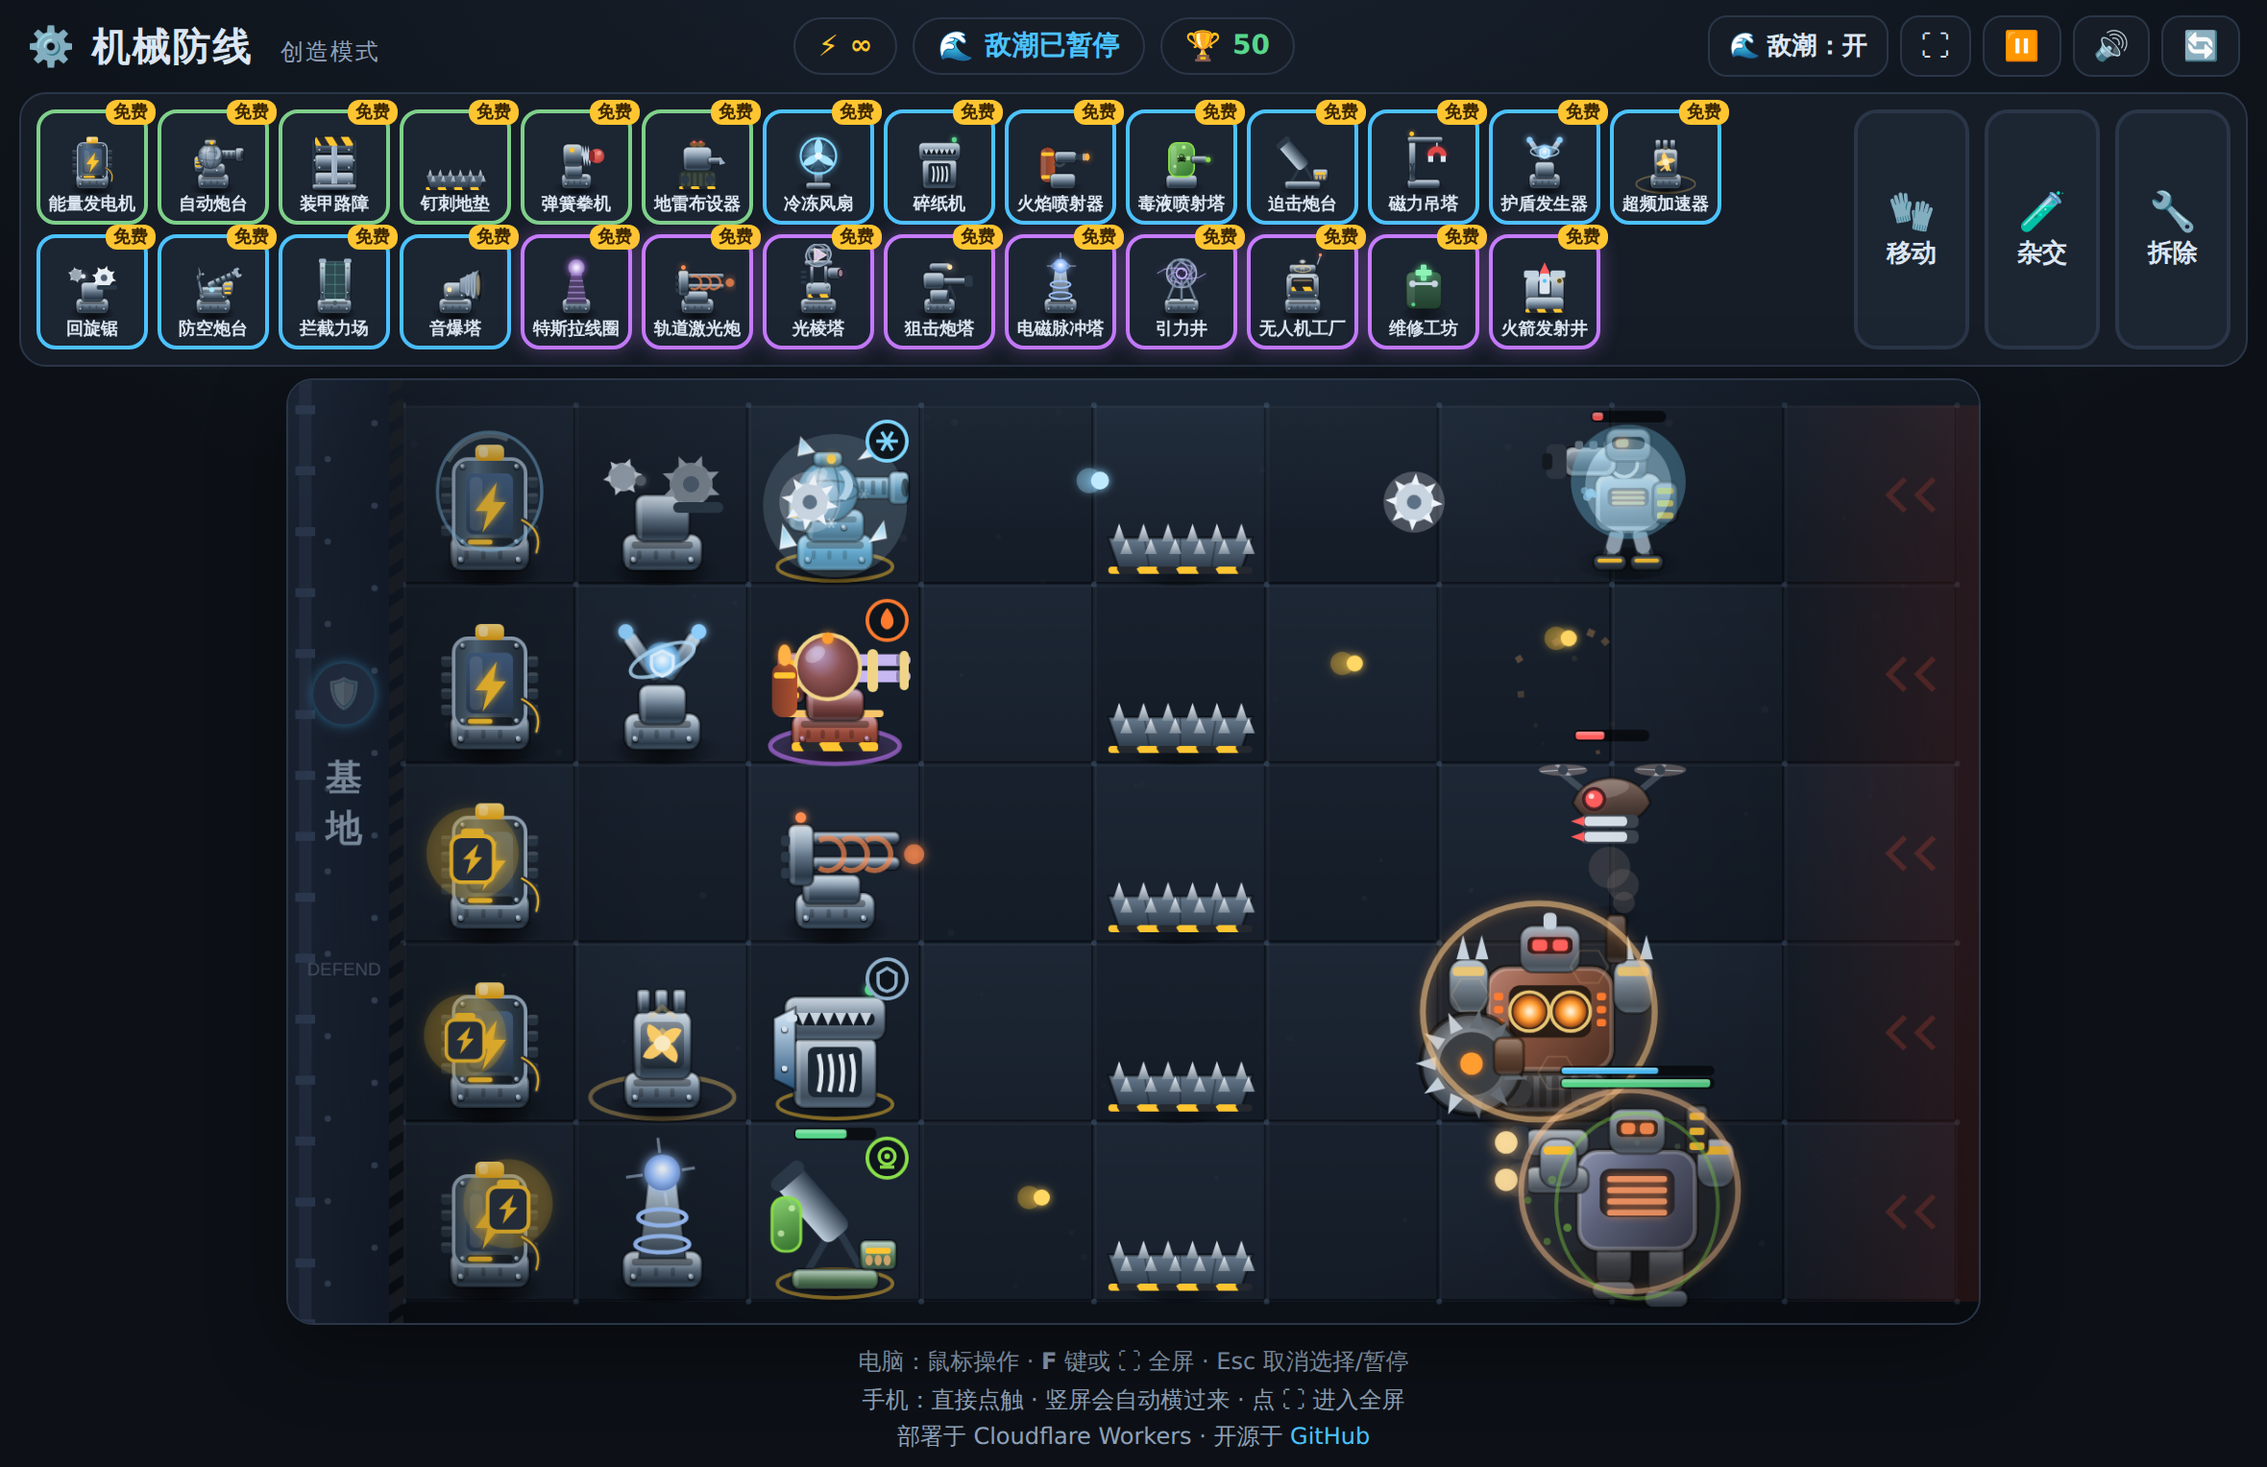
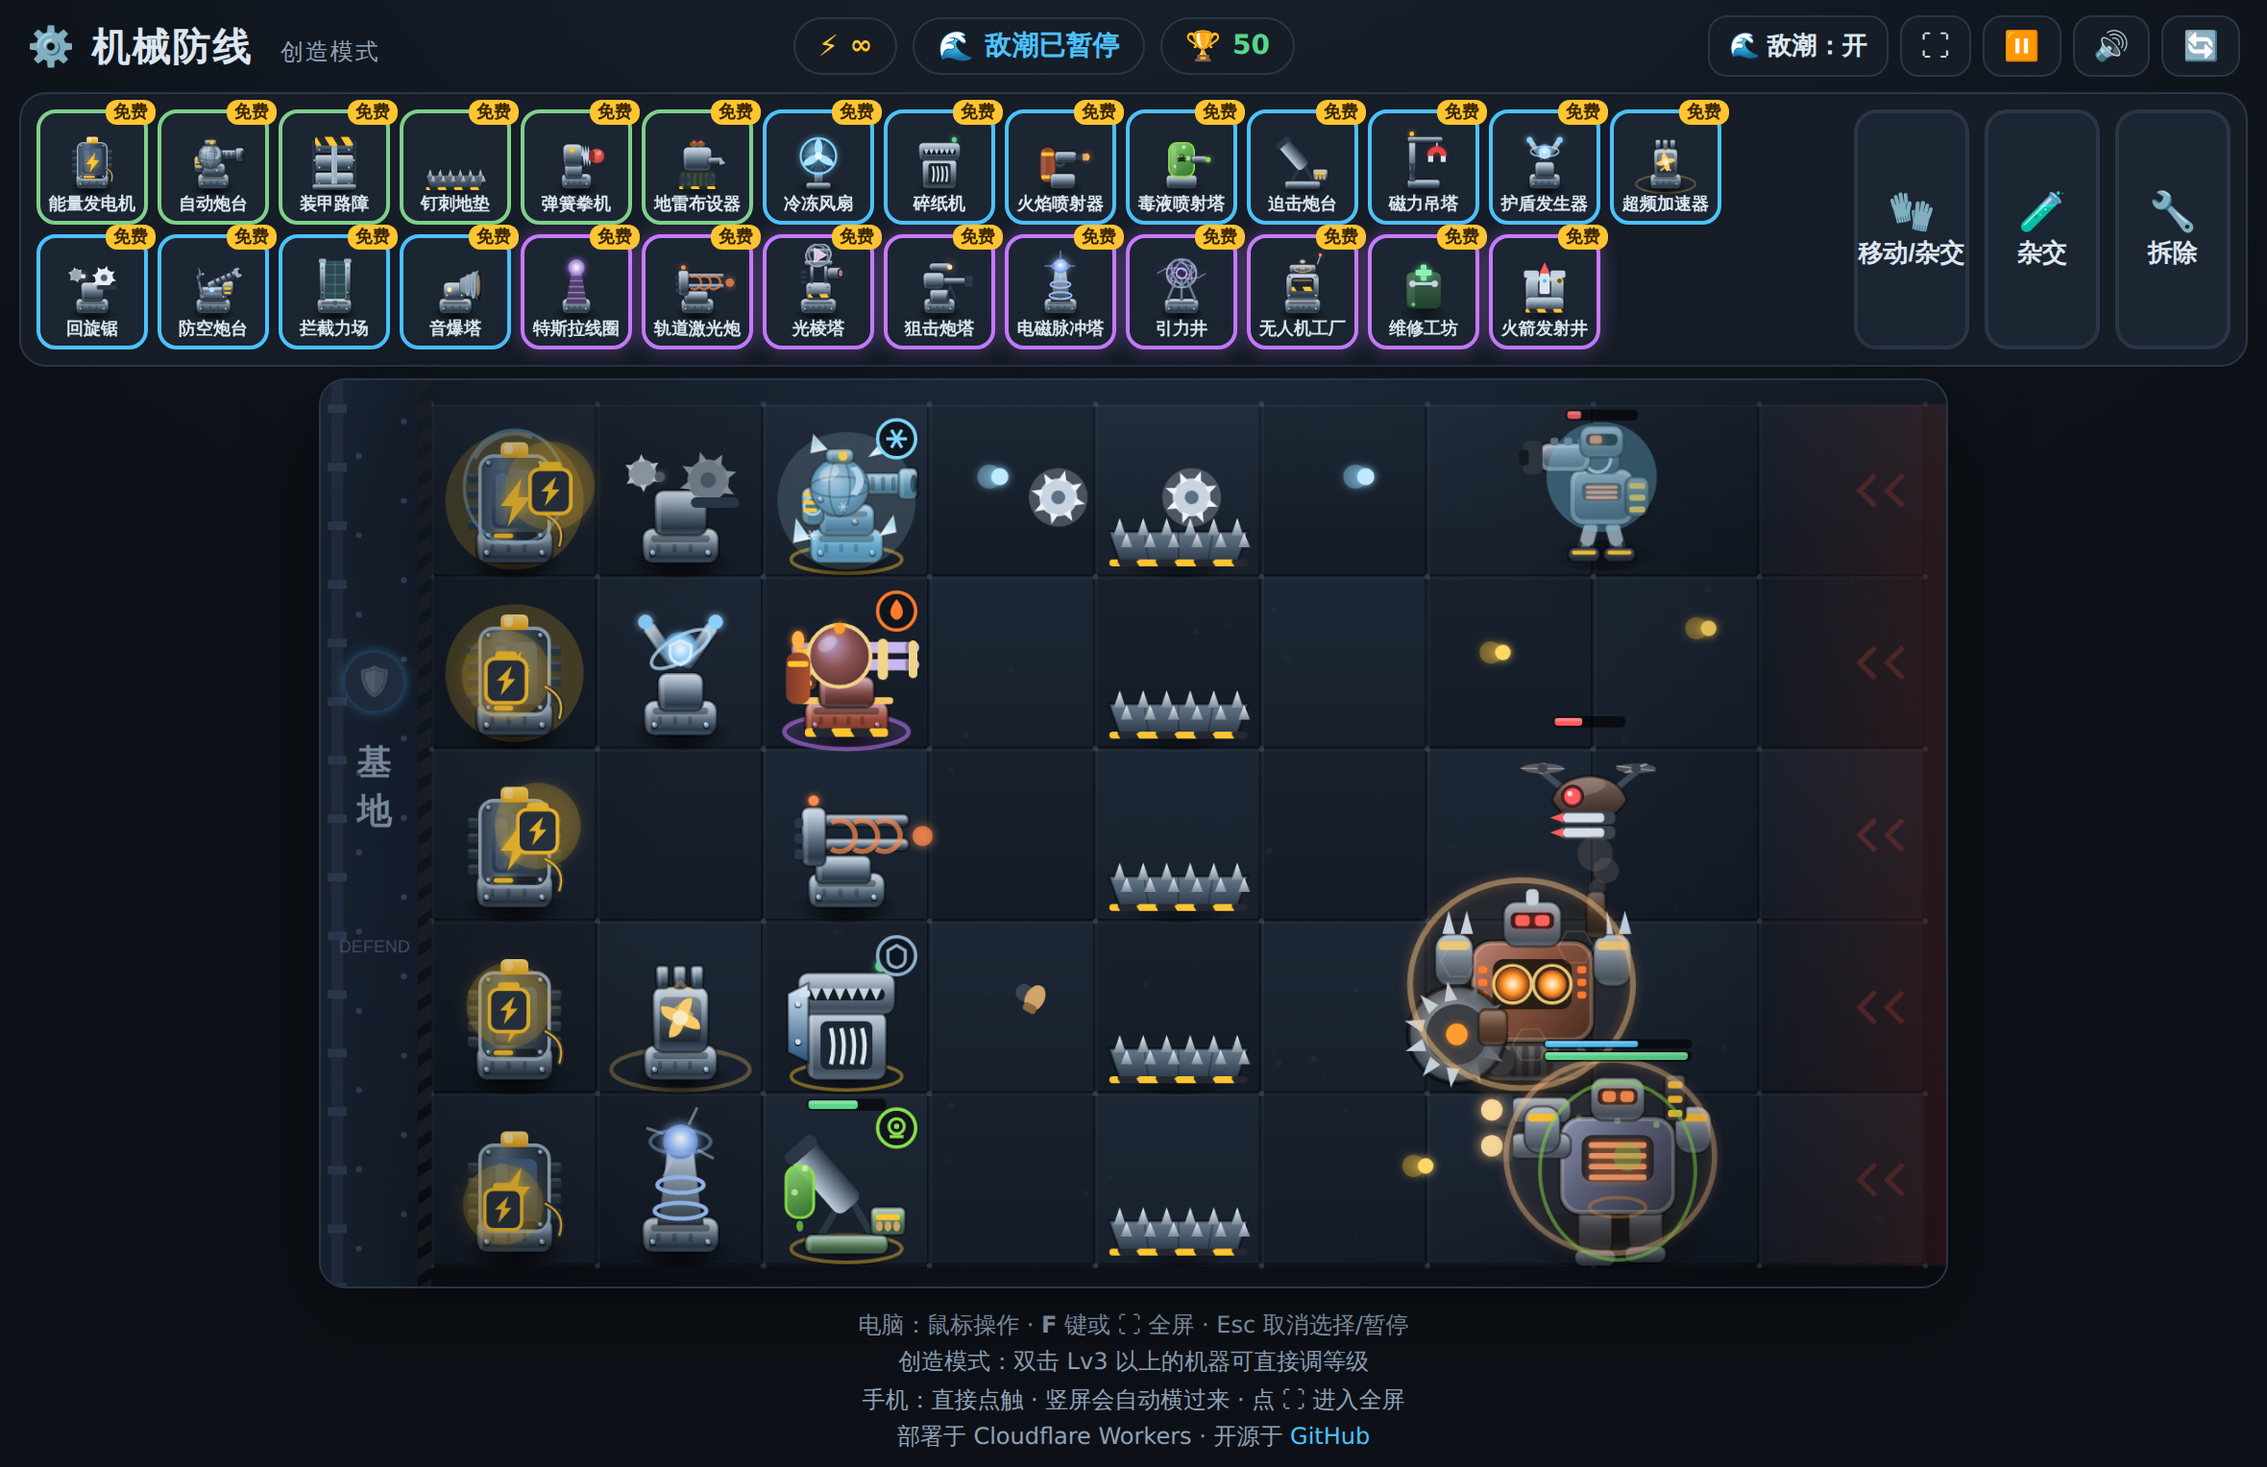
手套改成拖拽杂交：拖到空格是搬运，拖到机器身上直接合成
- 手套按钮改名「移动/杂交」：按住一台机器拖走，落到空格是搬运，
  落到另一台机器身上就直接杂交，不用先点杂交按钮再点两下
- 点选式也保留：点一下拿起、点另一台放下同样触发杂交；点回原格取消
- 拖拽过程中实时预览：源格蓝框、目标格紫框、虚线连接，
  目标上方直接标出合成后的名字（例如「冰霜加特林炮台 Lv6」），
  手上的机器半透明跟着指针走
- 手套没有冷却，合成完保持激活，可以一路拖着连锁合成
- 杂交按钮同步改成合成后保持激活，连着点下一对即可，不再需要反复点按钮
- 拖到未开封的盲盒上会被拒绝并提示
- 鼠标按住拖动与触屏点选/拖动共用同一套判定，竖屏旋转下同样正确

调试接口新增 grab / drop / drag / carrying，方便脚本模拟手套操作。

Claude-Session: https://claude.ai/code/session_013zm6ptXCtQUidycgiq7Yoe

diff --git a/public/game.js b/public/game.js
@@ -2464,33 +2464,22 @@ cv.addEventListener('pointerdown', ev => {
     return;
   }
   if (sel && sel.mode === 'move') {
-    const m = grid[cell.r][cell.c];
-    if (m) {
+    if (!sel.from) {
+      // 空手：把这一格的机器拿起来（按住不放可以直接拖）
+      const m = grid[cell.r][cell.c];
+      if (!m) return;
       if (m.type === 'box') {
         addFloat(cellCx(cell.c), cellCy(cell.r) - 30, '盲盒还没开封', '#ff5d5d');
         sfx('error');
         return;
       }
-      if (sel.from && sel.from.r === cell.r && sel.from.c === cell.c) { sel.from = null; return; }
       sel.from = { r: cell.r, c: cell.c };
+      sel.grabbed = true;          // 记住这次是按下拿起的，抬手时判断是不是拖拽
       sfx('place');
       return;
     }
-    if (!sel.from) return;
-    const src = grid[sel.from.r][sel.from.c];
-    if (!src) { sel.from = null; return; }
-    grid[sel.from.r][sel.from.c] = null;
-    grid[cell.r][cell.c] = src;
-    spawnParts(cellCx(sel.from.c), cellCy(sel.from.r) + 20, '#8fa1b8', 8, 70, 0.4, 'smoke');
-    src.row = cell.r;
-    src.col = cell.c;
-    if (lvTarget === src) renderLevelPanel();
-    spawnParts(cellCx(cell.c), cellCy(cell.r) + 20, '#8fa1b8', 8, 70, 0.4, 'smoke');
-    addFloat(cellCx(cell.c), cellCy(cell.r) - 40, '搬运完成', '#4cc2ff');
-    sfx('place');
-    // 手套没有冷却：保持搬运模式，可以连着搬
-    sel.from = null;
-    renderTray();
+    // 手上有机器：点自己=放回原地，点空格=搬过去，点别的机器=直接杂交
+    dropCarried(cell.r, cell.c);
     return;
   }
   if (sel && sel.mode === 'fuse') {
@@ -2510,7 +2499,8 @@ cv.addEventListener('pointerdown', ev => {
     const a = grid[sel.first.r][sel.first.c];
     if (!a) { sel.first = { r: cell.r, c: cell.c }; return; }
     doFuse(sel.first.r, sel.first.c, cell.r, cell.c);
-    sel = null;
+    // 杂交模式保持激活，可以接着选下一对，不用再点按钮
+    sel.first = null;
     renderTray();
     return;
   }
@@ -2562,6 +2552,57 @@ cv.addEventListener('pointerdown', ev => {
     }
   }
 });
+// 手套放下：空格→搬运，别的机器→杂交，原地→放回
+function dropCarried(r, c) {
+  if (!sel || sel.mode !== 'move' || !sel.from) return false;
+  const src = grid[sel.from.r][sel.from.c];
+  if (!src) { sel.from = null; sel.grabbed = false; return false; }
+  if (sel.from.r === r && sel.from.c === c) { sel.from = null; sel.grabbed = false; return false; }
+
+  const dst = grid[r][c];
+  if (dst) {
+    // 拖到另一台机器身上 → 直接杂交，手套保持激活可以接着拖
+    if (dst.type === 'box') {
+      addFloat(cellCx(c), cellCy(r) - 30, '盲盒还没开封', '#ff5d5d');
+      sfx('error');
+      return false;
+    }
+    doFuse(sel.from.r, sel.from.c, r, c);
+    sel.from = null;
+    sel.grabbed = false;
+    renderTray();
+    return true;
+  }
+  // 空格 → 搬运
+  grid[sel.from.r][sel.from.c] = null;
+  grid[r][c] = src;
+  spawnParts(cellCx(sel.from.c), cellCy(sel.from.r) + 20, '#8fa1b8', 8, 70, 0.4, 'smoke');
+  src.row = r;
+  src.col = c;
+  if (lvTarget === src) renderLevelPanel();
+  spawnParts(cellCx(c), cellCy(r) + 20, '#8fa1b8', 8, 70, 0.4, 'smoke');
+  addFloat(cellCx(c), cellCy(r) - 40, '搬运完成', '#4cc2ff');
+  sfx('place');
+  // 手套没有冷却：保持搬运模式，可以连着搬
+  sel.from = null;
+  sel.grabbed = false;
+  renderTray();
+  return true;
+}
+
+cv.addEventListener('pointercancel', () => { if (sel && sel.mode === 'move') sel.grabbed = false; });
+// 按住拖动：抬手时如果已经离开原格，就在这里落下
+cv.addEventListener('pointerup', ev => {
+  if (state !== 'playing') return;
+  if (!sel || sel.mode !== 'move' || !sel.from || !sel.grabbed) return;
+  const p = toGame(ev);
+  const cell = cellAt(p.x, p.y);
+  sel.grabbed = false;                       // 抬手后转为「点一下放下」模式
+  if (!cell) return;
+  if (cell.r === sel.from.r && cell.c === sel.from.c) return;   // 原地抬手 = 继续拿着
+  dropCarried(cell.r, cell.c);
+});
+
 cv.addEventListener('contextmenu', ev => {
   ev.preventDefault();
   if (sel) { sel = null; renderTray(); }
@@ -8736,22 +8777,55 @@ function drawHoverGhost() {
     return;
   }
   if (sel.mode === 'move') {
-    if (sel.from && !occupied) {
-      const src = grid[sel.from.r][sel.from.c];
-      g.fillStyle = 'rgba(76,194,255,0.14)';
-      g.fillRect(x, y, CELL_W, CELL_H);
-      g.strokeStyle = 'rgba(76,194,255,0.7)';
-      g.lineWidth = 2;
-      g.strokeRect(x + 1, y + 1, CELL_W - 2, CELL_H - 2);
-      if (src) {
-        g.globalAlpha = 0.5;
-        drawMachine(g, src.type, cellCx(cell.c), cellCy(cell.r) + 6, 1.0, src);
-        g.globalAlpha = 1;
-      }
-    } else {
+    const src = sel.from ? grid[sel.from.r][sel.from.c] : null;
+    if (!src) {
+      // 空手：高亮可以拿起的机器
       g.fillStyle = occupied ? 'rgba(76,194,255,0.16)' : 'rgba(255,255,255,0.05)';
       g.fillRect(x, y, CELL_W, CELL_H);
+      return;
     }
+    const self = sel.from.r === cell.r && sel.from.c === cell.c;
+    const dst = grid[cell.r][cell.c];
+    const willFuse = !!dst && !self && dst.type !== 'box';
+    const bad = !!dst && dst.type === 'box';
+    // 落点框：杂交=紫、搬运=蓝、不能放=红
+    const col = bad ? '255,93,93' : willFuse ? '199,123,255' : self ? '150,165,180' : '76,194,255';
+    g.fillStyle = 'rgba(' + col + ',0.16)';
+    g.fillRect(x, y, CELL_W, CELL_H);
+    g.strokeStyle = 'rgba(' + col + ',0.8)';
+    g.lineWidth = 2;
+    g.strokeRect(x + 1, y + 1, CELL_W - 2, CELL_H - 2);
+    if (willFuse) {
+      // 预告杂交结果
+      const out = nameOfModules(mergeModules(src.modules, dst.modules));
+      g.font = 'bold 12px "PingFang SC", system-ui, sans-serif';
+      g.textAlign = 'center';
+      g.textBaseline = 'bottom';
+      const tw = g.measureText(out).width;
+      const ty = y - 4;
+      g.fillStyle = 'rgba(10,14,20,0.85)';
+      rr(g, x + CELL_W / 2 - tw / 2 - 7, ty - 17, tw + 14, 18, 6); g.fill();
+      g.strokeStyle = 'rgba(199,123,255,0.85)';
+      g.lineWidth = 1.2;
+      rr(g, x + CELL_W / 2 - tw / 2 - 7, ty - 17, tw + 14, 18, 6); g.stroke();
+      g.fillStyle = '#e2ccff';
+      g.fillText(out, x + CELL_W / 2, ty - 3);
+      // 连线
+      g.strokeStyle = 'rgba(199,123,255,' + (0.5 + Math.sin(time * 8) * 0.25) + ')';
+      g.lineWidth = 2.4;
+      g.setLineDash([6, 5]);
+      g.beginPath();
+      g.moveTo(cellCx(sel.from.c), cellCy(sel.from.r));
+      g.lineTo(cellCx(cell.c), cellCy(cell.r));
+      g.stroke();
+      g.setLineDash([]);
+    }
+    // 手上的机器跟着指针走
+    g.save();
+    g.globalAlpha = 0.62;
+    const fy = cellCy(cell.r) + 6 - (willFuse ? 16 : 0);
+    drawMachine(g, src.type, cellCx(cell.c), fy, willFuse ? 0.85 : 1.0, src);
+    g.restore();
     return;
   }
   if (sel.mode === 'card') {
@@ -8832,6 +8906,29 @@ window.__game = {
   get mode() { return mode; },
   get cooldowns() { return { ...classicCd }; },
   get moveCooldown() { return 0; },   // 手套已取消冷却
+  // 手套：拿起一台机器
+  grab: (r, c) => {
+    if (state !== 'playing') return false;
+    sel = { mode: 'move', from: null, grabbed: false };
+    const m = grid[r][c];
+    if (!m || m.type === 'box') return false;
+    sel.from = { r, c };
+    renderTray();
+    return true;
+  },
+  // 手套：把手上的机器落到目标格（空格=搬运，有机器=杂交）
+  drop: (r, c) => dropCarried(r, c),
+  // 一步到位：从 (r1,c1) 拖到 (r2,c2)
+  drag: (r1, c1, r2, c2) => {
+    if (state !== 'playing') return false;
+    const m = grid[r1][c1];
+    if (!m || m.type === 'box') return false;
+    sel = { mode: 'move', from: { r: r1, c: c1 }, grabbed: true };
+    const ok = dropCarried(r2, c2);
+    renderTray();
+    return ok;
+  },
+  get carrying() { return sel && sel.mode === 'move' && sel.from ? { ...sel.from } : null; },
   move: (r1, c1, r2, c2) => {
     const src = grid[r1][c1];
     if (!src || src.type === 'box' || grid[r2][c2]) return false;

diff --git a/public/index.html b/public/index.html
@@ -479,8 +479,8 @@
       </div>
     </div>
     <div id="classicTray" style="display:none;"></div>
-    <button id="moveBtn" title="手套：选中后点击一台机器，再点击空格把它搬过去（冷却 5 秒）"><span class="big">🧤</span>移动</button>
-    <button id="fuseBtn" title="任意两台机器都能杂交！同类杂交升级（炮台+炮台=双管炮台，双管+双管=加特林炮台），不同类杂交叠能力（碎纸机+路障=装甲碎纸机，再+发电机=充能装甲碎纸机……最多叠 5 个能力、每个 3 级）"><span class="big">🧪</span>杂交</button>
+    <button id="moveBtn" title="手套（没有冷却）：拿起一台机器 → 拖到空格就是搬运，拖到另一台机器身上就直接杂交，可以一直拖不用重新点"><span class="big">🧤</span>移动/杂交</button>
+    <button id="fuseBtn" title="点选式杂交（杂交完保持激活，可以连着点）：任意两台机器都能杂交！同类杂交升级（炮台+炮台=双管炮台，双管+双管=加特林炮台），不同类杂交叠能力（碎纸机+路障=装甲碎纸机，再+发电机=充能装甲碎纸机……最多叠 5 个能力、每个 3 级）"><span class="big">🧪</span>杂交</button>
     <button id="shovelBtn" title="选中后点击场上的机器将其拆除"><span class="big">🔧</span>拆除</button>
   </div>
 
@@ -508,7 +508,7 @@
         <div>🎁 <b>开盲盒</b>：花 50⚡ 把盲盒放到战场空格上——<b>落地即开</b>，开出什么就地服役！</div>
         <div>🎲 <b>拼手气</b>：10 种机器分普通/稀有/史诗，连开 4 次普通后必出稀有以上</div>
         <div>⚡ <b>能量</b>：点击掉落的电池收集能量，发电机也会产电</div>
-        <div>🧤 <b>手套</b>：把已放置的机器随意搬到别的格子，<b>没有冷却</b>；🚀 火箭井发射后会自动装填</div>
+        <div>🧤 <b>手套</b>：拿起机器<b>拖到空格</b>就是搬运，<b>拖到另一台机器身上就直接杂交</b>，没有冷却也不用反复点按钮</div>
         <div>🛠 <b>创造模式</b>：能量无限、机器免费无冷却、敌潮可随时开关，尽情实验杂交组合</div>
         <div>🔬 <b>调等级</b>（创造模式）：机器<b>总等级到 Lv3</b> 后，<b>双击</b>它就能逐条能力加减等级</div>
         <div>🗑 <b>碎纸机</b>：把靠近的机器人整个塞进去粉碎；🥊 弹簧拳机近战无视护盾</div>

diff --git a/README.md b/README.md
@@ -37,8 +37,11 @@
 - **🎁 开盲盒**（盲盒模式）：花 50⚡ 买一个盲盒，点击战场空格放下——盒子抖动片刻当场炸开，随机机器就地部署！先选位置、后拼手气
 - **🎲 概率**：普通 58% / 稀有 30% / 史诗 12%，连续 4 次普通后必出稀有以上（状态栏可见保底进度和最近开出记录）
 - **⚠ 风险**：未开封的盲盒也会被敌人攻击，别把盒子丢到机器人嘴边
-- **🧪 杂交**：点"杂交"按钮后依次点选场上两台机器即可融合——**任意组合都行**，详见下方杂交系统
-- **🧤 手套**：点"移动"按钮，选中一台机器再点空格把它搬过去——**没有冷却**，可以连着搬，随时重排阵型
+- **🧤 手套 = 搬运 + 杂交**：点「移动/杂交」按钮后，**按住一台机器拖走**——
+  拖到空格就是搬运，**拖到另一台机器身上就直接杂交**。松手前会实时预告合成结果的名字，
+  没有冷却、也不用每次重新点按钮，可以一路拖着连锁合成
+- **🧪 杂交按钮**：想要更稳的点选式也行——点「杂交」后依次点两台机器；
+  合成完按钮**保持激活**，接着点下一对即可，**任意组合都能合**，详见下方杂交系统
 - **🔬 调等级**（仅创造模式）：机器**总等级到 Lv3** 之后，空手**双击**它就会弹出调节面板，
   可以逐条能力 −/+ 调级，也能「全体 ±1」一把梭；能力降到 0 就把这条能力摘掉（至少保留一条）。
   等级掉回 Lv3 以下面板会自动收起，手套把机器搬走时面板也跟着走
@@ -82,7 +85,10 @@
 
 ### 🧬 通用杂交系统（任意组合，能力与等级都无上限）
 
-**任意两台机器都能杂交**，产物还能继续杂交。每台机器由若干"能力模块"组成，
+![拖拽杂交](docs/dragfuse.png)
+
+**任意两台机器都能杂交**——用手套把一台拖到另一台身上就行——产物还能继续杂交。
+每台机器由若干"能力模块"组成，
 **能力数量与等级理论上都没有上限**——想叠多少叠多少：
 
 - **同类杂交 → 升级**：自动炮台＋自动炮台＝双管炮台，双管炮台＋双管炮台＝**加特林炮台**，
